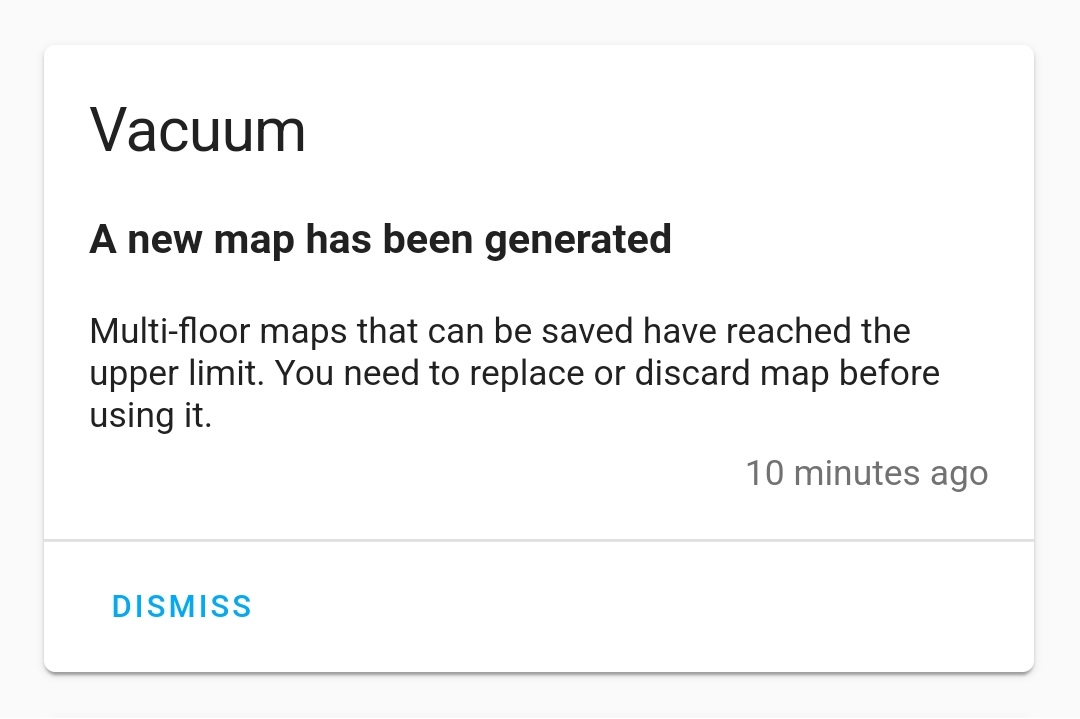
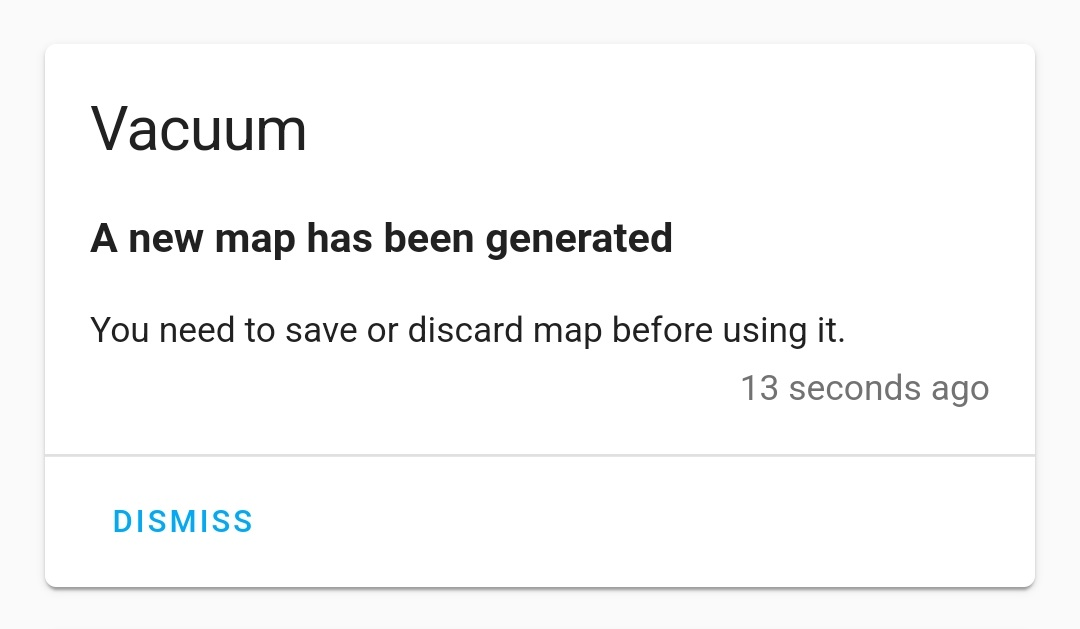
Docs updated

diff --git a/docs/notifications.md b/docs/notifications.md
@@ -17,11 +17,12 @@ Added when consumable life is ended.
 
 ### Error reporting
 Added when there is a fault or warning with the device.
-> Warnings are actually can be cleared from the device when notification is dismissed from Home assistant.
 
-<img src="https://raw.githubusercontent.com/Tasshack/dreame-vacuum/master/docs/media/notification_error_drop_.jpg" width="500px">
+<img src="https://raw.githubusercontent.com/Tasshack/dreame-vacuum/master/docs/media/notification_error_drop.jpg" width="500px">
 
 <img src="https://raw.githubusercontent.com/Tasshack/dreame-vacuum/master/docs/media/notification_error_blocked.jpg" width="500px">
+
+> Warnings are actually can be cleared from the device when notification is dismissed from Home assistant.
 
 <img src="https://raw.githubusercontent.com/Tasshack/dreame-vacuum/master/docs/media/notification_warning_mop.jpg" width="500px">
 
@@ -35,11 +36,11 @@ Added when resume cleaning feature is enabled and vacuum cannot continue cleanin
 ### New map must be replaced
 Added after mapping completed when device cannot store the new map. Official app does not allow you to make any changes when device on this state.
 
-<img src="https://raw.githubusercontent.com/Tasshack/dreame-vacuum/master/docs/media/temporary_map.jpg" width="500px">
+<img src="https://raw.githubusercontent.com/Tasshack/dreame-vacuum/master/docs/media/notification_temporary_map.jpg" width="500px">
 
-<img src="https://raw.githubusercontent.com/Tasshack/dreame-vacuum/master/docs/media/temporary_multi_map.jpg" width="500px">
+<img src="https://raw.githubusercontent.com/Tasshack/dreame-vacuum/master/docs/media/notification_temporary_multi_map.jpg" width="500px">
 
 ### Dust collection not performed
 Added when auto-emptying not performed due to the do not disturb settings.
 
-<img src="https://raw.githubusercontent.com/Tasshack/dreame-vacuum/master/docs/media/dust_collection.jpg" width="500px">
+<img src="https://raw.githubusercontent.com/Tasshack/dreame-vacuum/master/docs/media/notification_dust_collection.jpg" width="500px">
